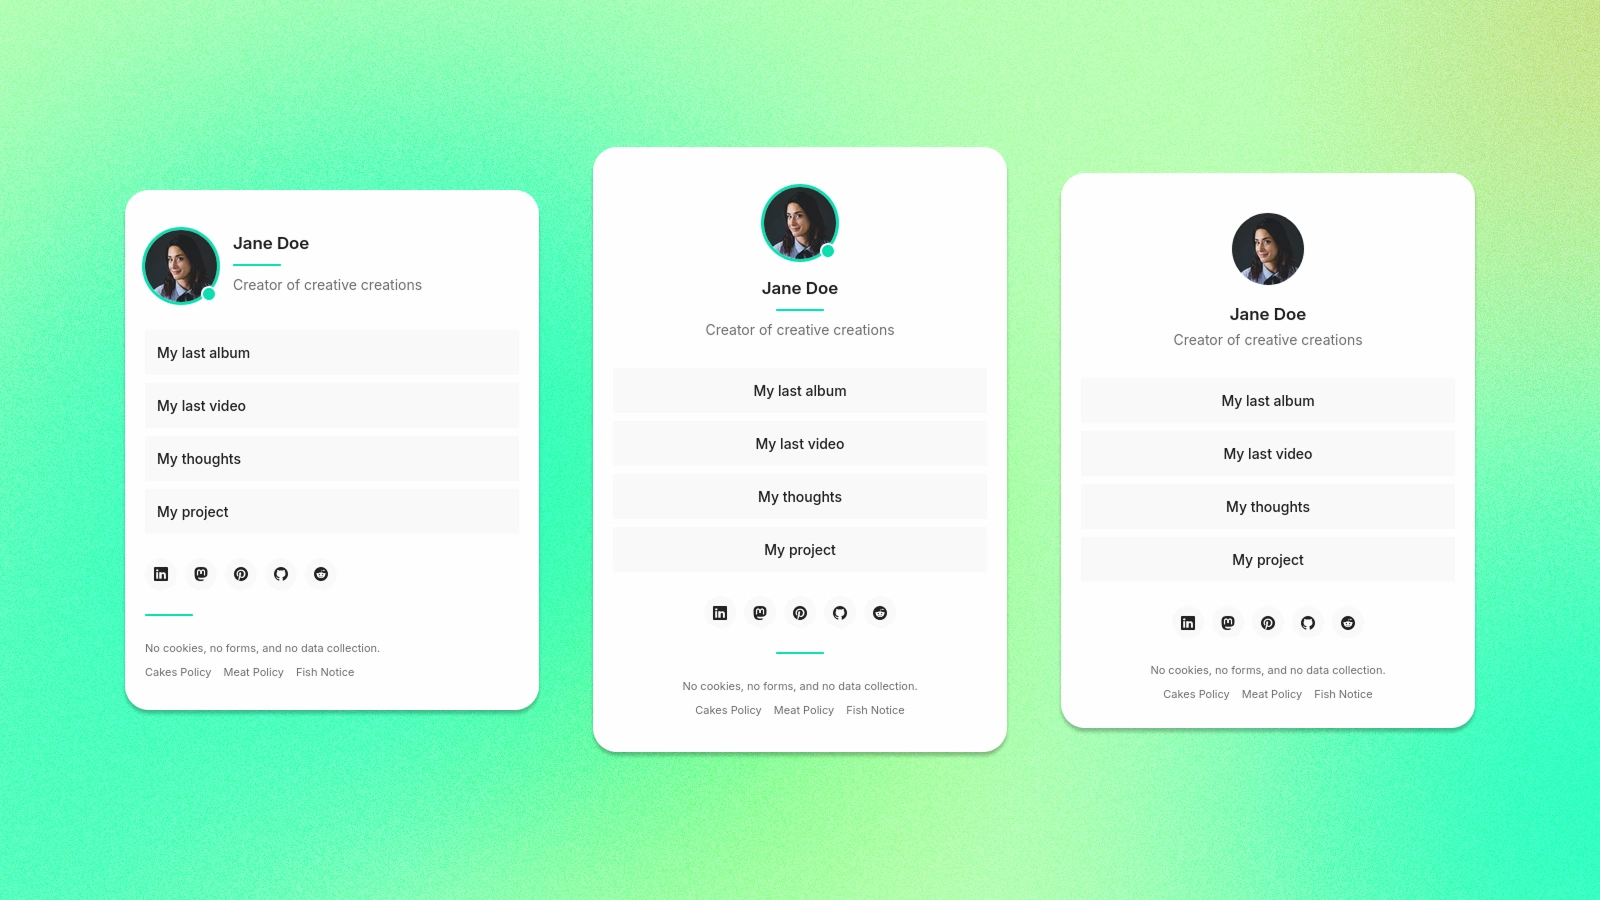
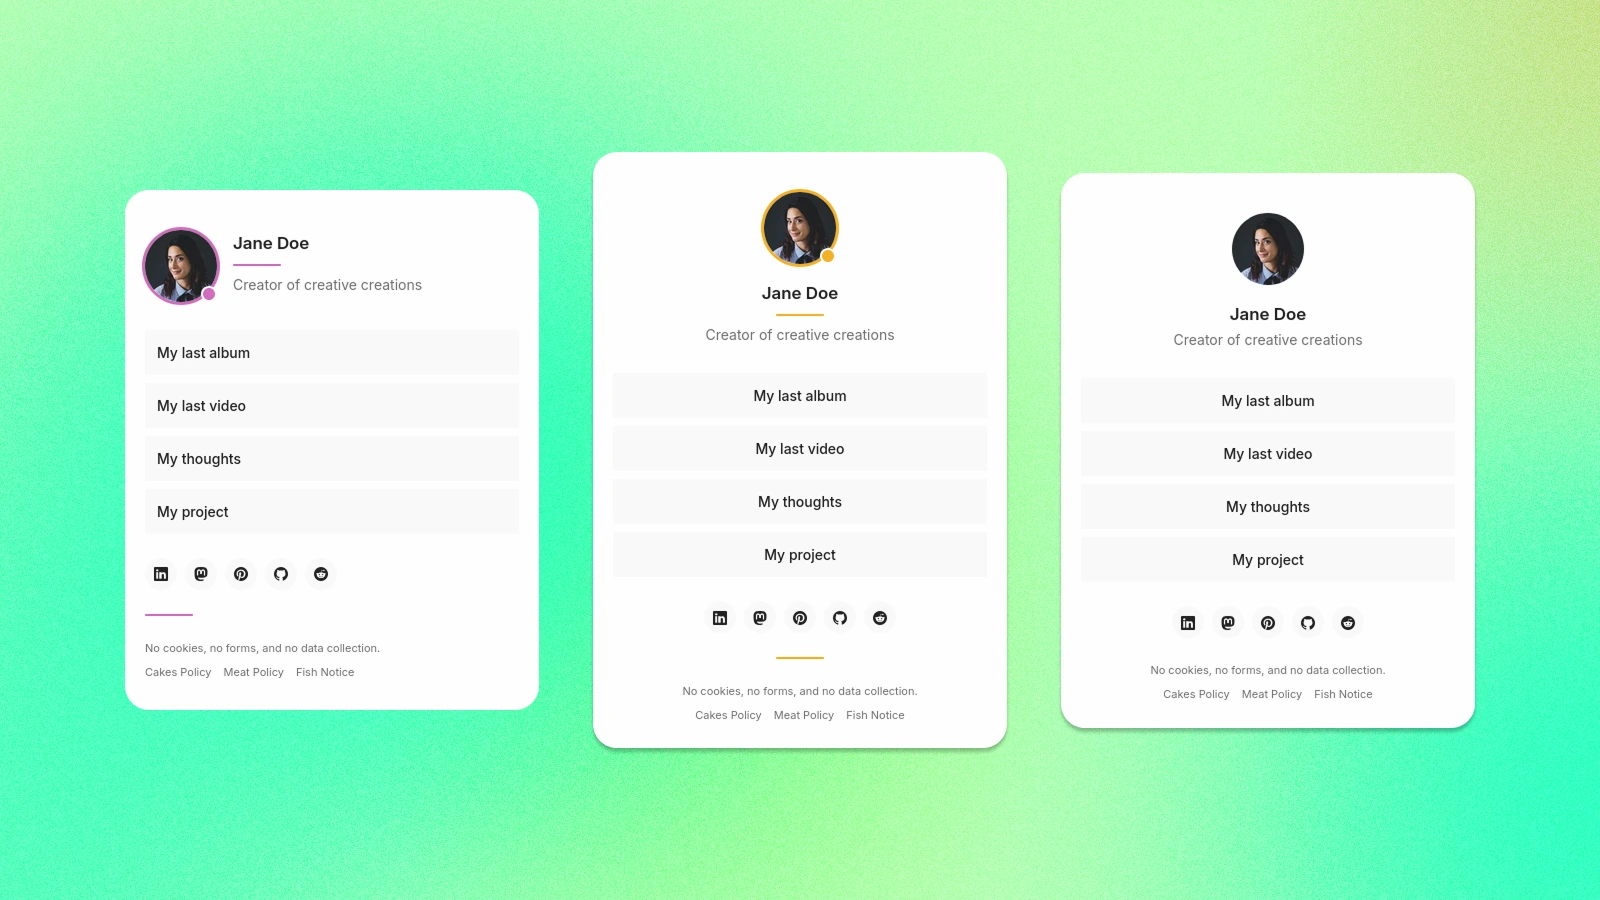
Update README

diff --git a/README.md b/README.md
@@ -45,7 +45,7 @@ Furthermore, thanks to the power of Tailwind CSS 4, you can manipulate its appea
     - Write your name and description. Add your profile image.
     - Set your custom links and social media profiles.
 2. Open `src/assets/styles/theme.css`
-    - Set your custom accent color.
+    - Set your custom accent color (make sure we all can enjoy your site: [whocanuse.com](https://www.whocanuse.com/)).
     - Change anything you want.
 
 By manipulating only these two files, you'll have your custom Link in Bio page ready.
@@ -76,6 +76,11 @@ You'll find a few options in the settings file:
 #### Links
 
 Just add your links following the examples in the file. They will appear on the homepage as large buttons.
+
+```json
+"My last album": "https://bandcamp.com/me/myalbum",
+"My last video": "https://vimeo.com/myvideo",
+```
 
 #### Social
 
